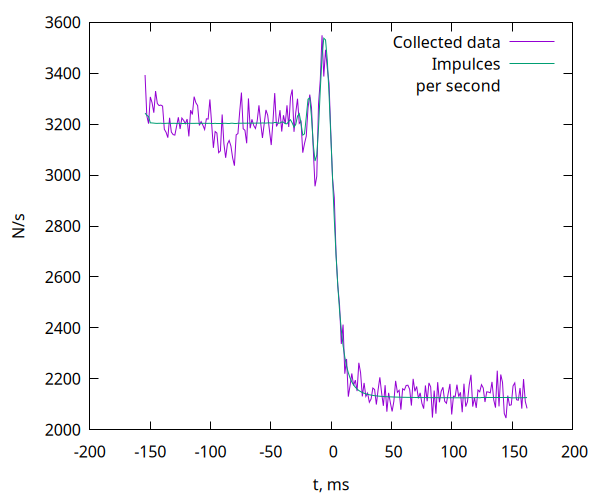
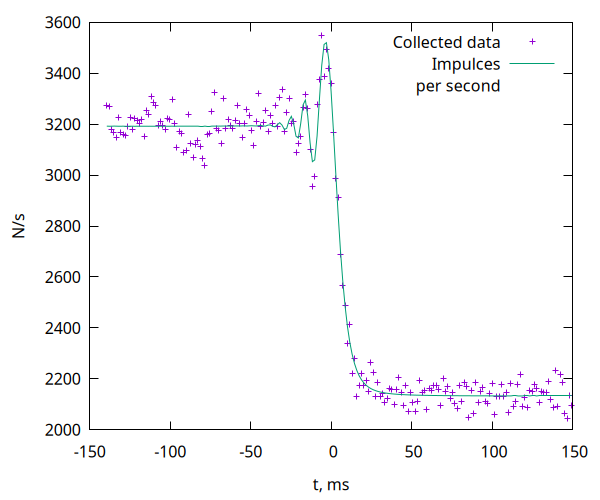
Update data after 10'000 runs

diff --git a/src/main.cpp b/src/main.cpp
@@ -19,7 +19,7 @@ int main() {
   GetModelData(data, params, 1);
   params.err = ComputeSqErr(data);
 
-  auto run_data = ApplyMonteKarlo(data, params, 3000, proc_count);
+  auto run_data = ApplyMonteKarlo(data, params, 10000, proc_count);
   params = run_data.at(0);
 
   GetModelData(data, params, 1);

diff --git a/README.md b/README.md
@@ -71,13 +71,13 @@ $$P_2 = B_0\frac{m}{2}\frac{\pi}{R_0}$$
 - $\lambda_1 = 6250$ A ($м^{-10}$) — интервал(начало) длин волн;
 - $\lambda_2 = 7750$ A ($м^{-10}$) — интервал(конец) длин волн;
 - $l = 3.64825 * 10^8$ м — расстояние до Луны;
-- $L_0 = 2127$ — фон неба;
+- $L_0 = 2132$ — фон неба;
 - $\Delta t = 2 * 10^{-3}$ с — длительность одного измерения t;
 - $V = 726$ м/с — скорость центра диска луны;
-- $t_0 = 208.3 * 10^{-3}$ с — время пересечения центра диска луны;
-- $R_0 = 2.8$ м — радиус проекции звезды на плоскость видимого диска луны;
-- $m = 0.4$ — коэффициент затемнения;
-- $B_0 = 2.94 * 10^{11}$ — яркость в центре звезды.
+- $t_0 = 192.3 * 10^{-3}$ с — время пересечения центра диска луны;
+- $R_0 = 2.96$ м — радиус проекции звезды на плоскость видимого диска луны;
+- $m = 0.6$ — коэффициент затемнения;
+- $B_0 = 4.35 * 10^{11}$ — яркость в центре звезды.
 
 ## Примеры графиков
 
